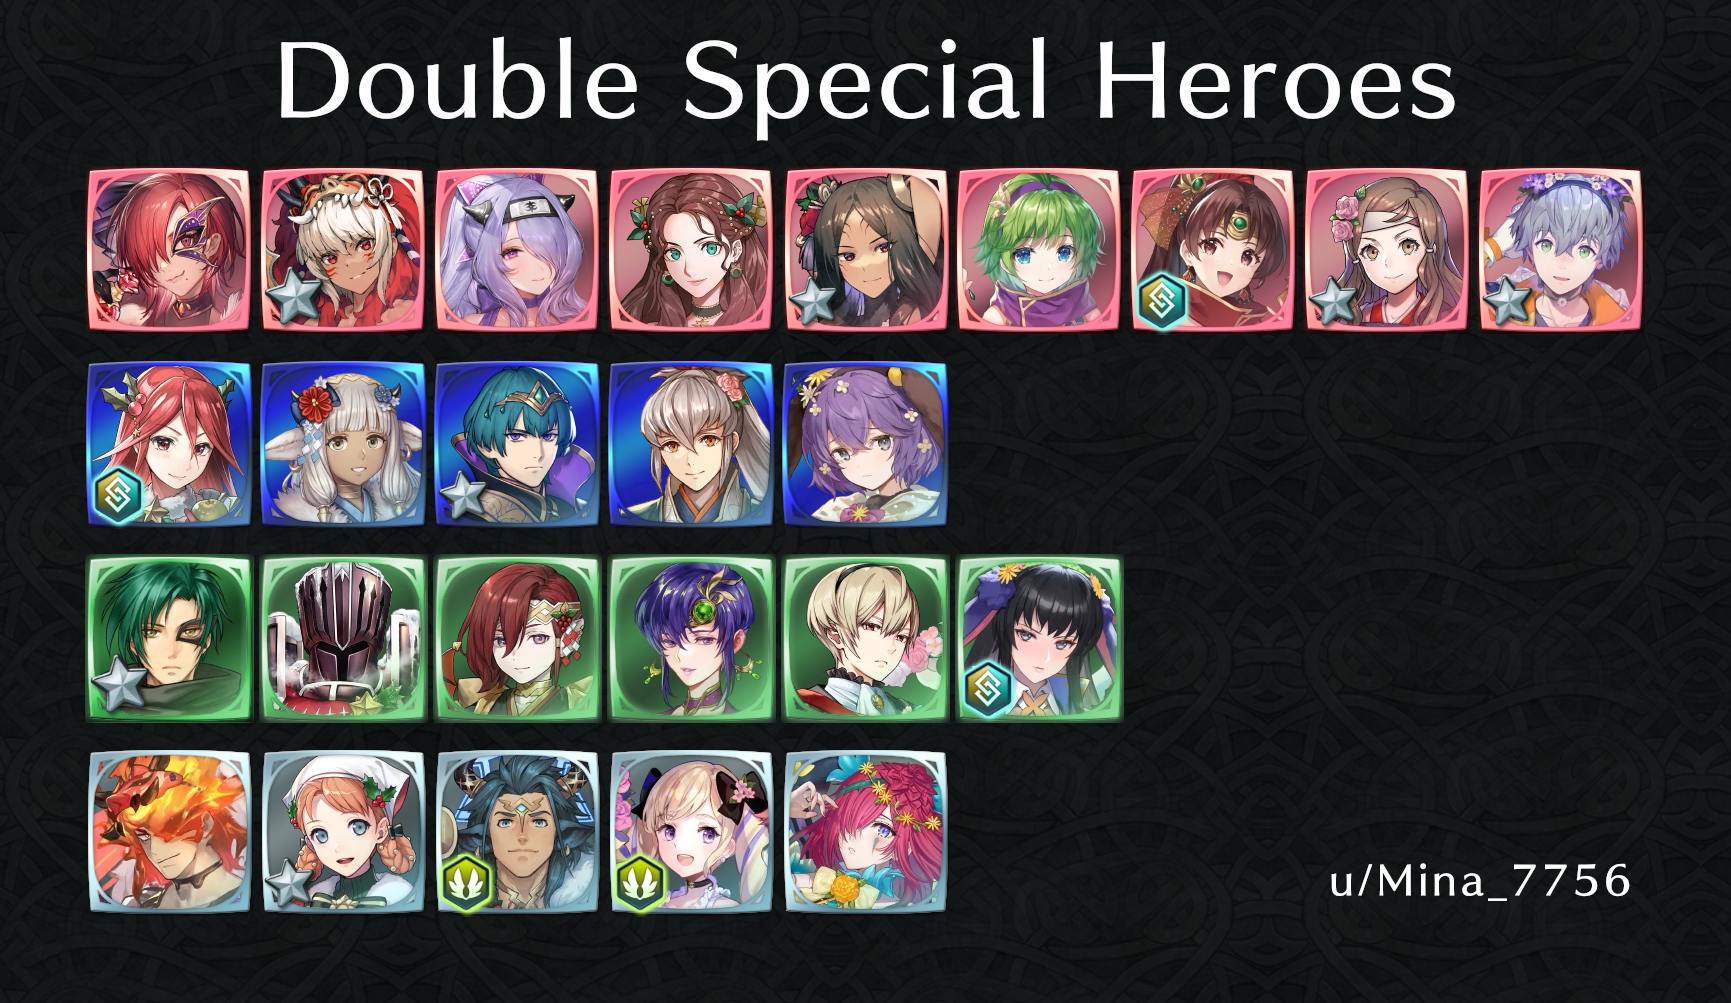
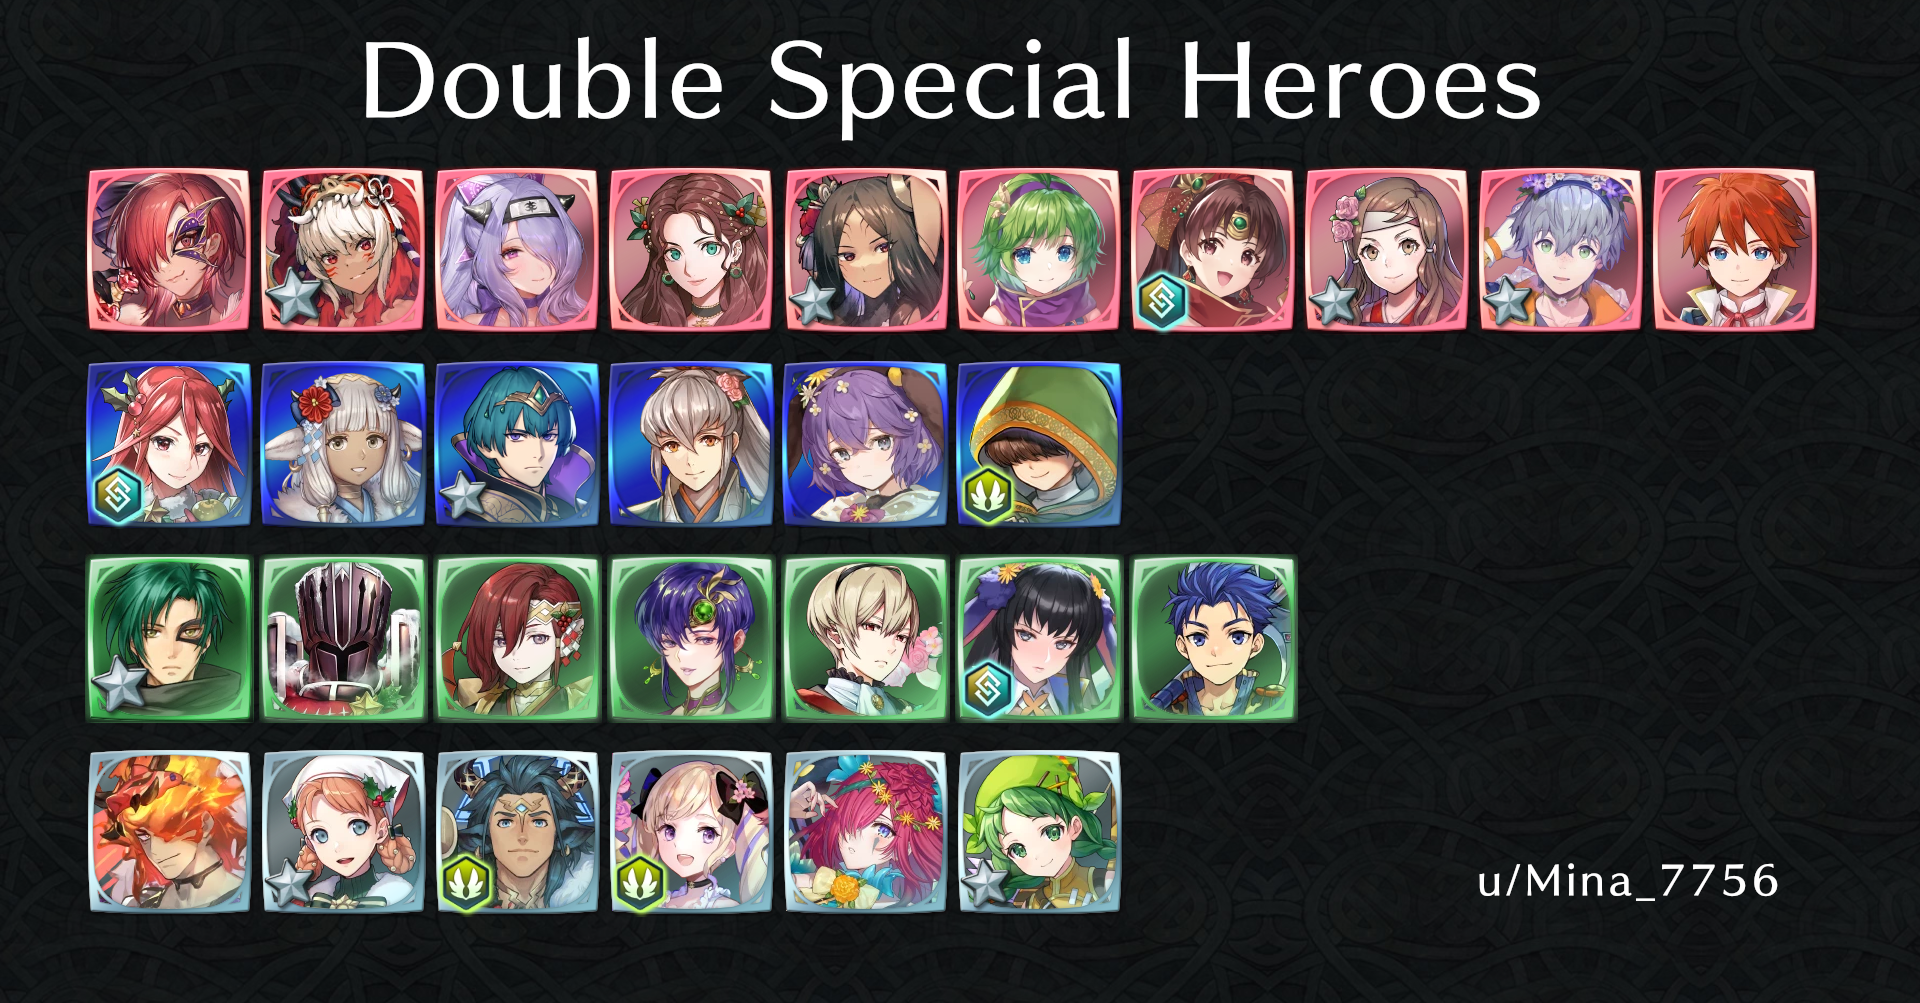
No Matter Where + yutter Where + Yuri

diff --git a/flairsnew.js b/flairsnew.js
@@ -13,6 +13,17 @@ let data = {
   ":Vigarde:" : "180_39010.png",
   ":Palla5:" : "110_9040.png",
 
+  ":Hector7:" : "170_3070.png",
+  ":Lyn11:" : "170_2100.png",
+  ":Lucius2:" : "170_12020.png",
+  ":Mark:" : "170_3120.png",
+  ":Aversa2:" : "1131_19020.png",
+  ":Eliwood7:" : "170_1060.png",
+  ":Rebecca2:" : "170_13020.png",
+  ":Yuri2:" : "1165_1020.png",
+  ":AshVG:" : "8888_0040.png",
+  ":FomoVG:" : "8888_8021.png",
+
 
 
   ":Elise6:": "1143_12060.png",
